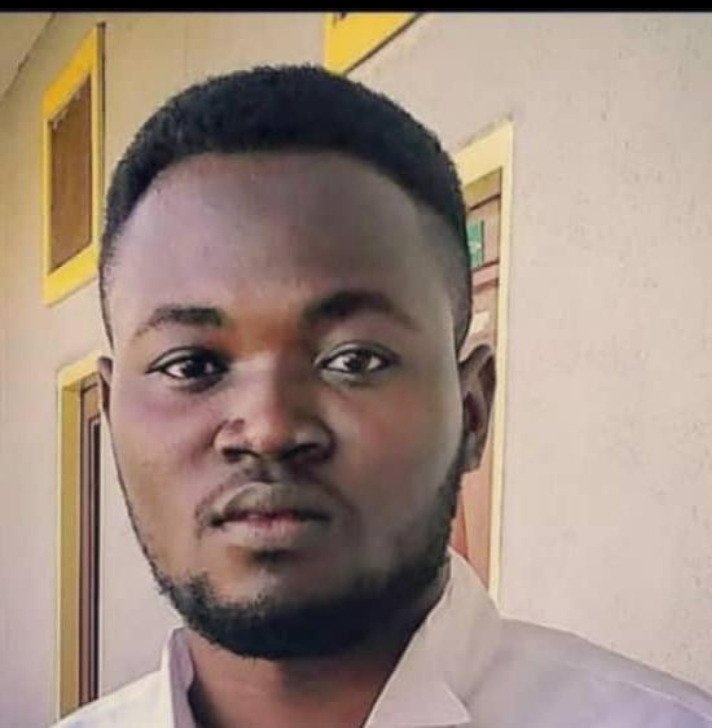
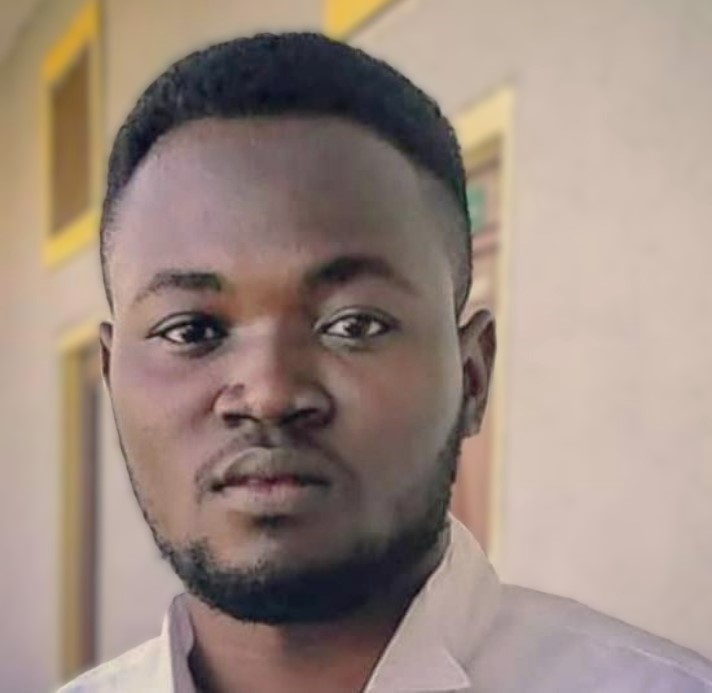
add descriptio for the projects and some styles

diff --git a/index.html b/index.html
@@ -89,7 +89,7 @@
         <!--About-me container-->
         <div class="relative container flex flex-col max-w-6xl mx-auto my-32 px-6 text-gray-900 md:flex-row md:px-0">
             <!--image-->
-            <img src="./images/Obinna Emmanuel Obi-Akwari.jpg" alt="">
+            <img src="./images/Obinna Emmanuel Obi-Akwari.jpg" class="rounded-xl shadow-2xl" alt="">
             <!--Text container-->
             <div class="top-48 pr-0 bg-white md:absolute md:right-0 md:py-20 md:pl-20">
                 <h2 class="max-w-lg mt-10 mb-6 font-sans text-4xl text-center text-gray-900 uppercase md:text-5xl md:mt-0 md:text-left">
@@ -152,7 +152,7 @@
             <!--Text container-->
             <div class="top-48 pr-0 bg-white md:right-0 md:py-20 md:pl-20">
                 <h2 class="max-w-lg mt-10 mb-6 font-sans text-4xl text-center text-gray-900  md:text-5xl md:mt-0 md:text-left">
-                   Backend
+                   Backend & Testing
                 </h2>
                 <div class="max-w-md text-center md:text-left md:text-justify">
                     <button class="border-2 p-1 bg-[#339933] text-white"><img src="" alt=""> Node js</button>
@@ -160,7 +160,9 @@
                     <button class="border-2 p-1 bg-[#47A248] text-white"><img src="" alt=""> Mongo DB</button>
                     <button class="border-2 p-1 bg-[#4E9F3D] text-white"><img src="" alt="">Mongoose</button>
                     <button class="border-2 p-1 bg-[#4479A1] text-white"><img src="" alt="">MySQL</button>
-                    <button class="border-2 p-1 bg-[#6C3D9E] text-white"><img src="" alt="">Sequelize</button>
+                    <button class="border-2 p-1 bg-[#6C3D9E] text-white"><img src="" alt="">Sequelize</button> 
+                    <button class="border-2 p-1 bg-[#00B8D9] text-black"><img src="" alt="">Vitest</button> 
+                    <button class="border-2 p-1 bg-[#99424F] text-white"><img src="" alt="">Jest</button> 
                 </div>
             </div>
         </div>
@@ -176,17 +178,23 @@
         </div>
         <div class=" container flex flex-col max-w-6xl mx-auto my-32 px-6 text-gray-900 md: text-center md: justify-center md:flex-row md:px-0">
             <!--image-->
-            <img src="./images/careerhunt.png" alt="">
+            <img src="./images/careerhunt.png" class="rounded-2xl shadow-xl" alt="careerhunt">
             <!--Text container-->
             <div class="top-48 pr-0 bg-white md:right-0 md:py-20 md:pl-20">
                 <h2 class="max-w-lg mt-10 mb-6 font-sans text-4xl text-center text-gray-900 uppercase md:text-5xl md:mt-0 md:text-left">
                    CareerHunt
                 </h2>
                 <p class="max-w-md text-center text-justify md:text-left md:text-justify">
-                    Hi there, I'm Obinna Emmanuel Obi-Akwari, a full-stack web developer driven by a deep passion for crafting digital solutions that make a difference. 
-                    With every project, I aim not just to meet expectations, but to exceed them, pushing boundaries and creating innovative web products. 
-                    My commitment to self-improvement means I'm always learning and staying ahead of the curve in this ever-evolving industry. 
-                    Let me bring your vision to life with my expertise, creativity, and dedication to excellence. <br /> <br />
+                    <i>"A platform for users to browse, apply and save job listings built with React and Node.js."</i><br /> 
+                    <b>Key features:</b>
+                    Fetches job listings dynamically from an external API. Users can create accounts, log in, log out, and delete their accounts.
+                    Authenticated users can save, view and delete saved jobs. Fully responsive design for both desktop and mobile users.<br />
+                    <b>Technologies Used:</b> <br />
+                    <b>Frontend:</b> React, Javascript, Boostrap, Html, Css. <br />
+                    <b>Backend:</b> Node.js, Express, MongoDB, Mongoose. <br />
+                    <b>Authentication:</b> JSON Web Tokens (JWT). <br />
+                    <b>API Calls:</b> Fetch API
+                    <br /> <br />
                     <button class="border-2 p-1 bg-[#28a745] text-white"><a href="">View Live</a></button>
                     <button class="border-2 p-1 bg-[#181717] text-white"><a href="">GitHub</a></button>
                     <button class="border-2 p-1 bg-[#D3D3D3] text-black"><a href="">Read more</a></button>
@@ -203,30 +211,17 @@
                    Frontend Quiz
                 </h2>
                 <p class="max-w-md text-center text-justify md:text-left md:text-justify">
-                    Hi there, I'm Obinna Emmanuel Obi-Akwari, a full-stack web developer driven by a deep passion for crafting digital solutions that make a difference. 
-                    With every project, I aim not just to meet expectations, but to exceed them, pushing boundaries and creating innovative web products. 
-                    My commitment to self-improvement means I'm always learning and staying ahead of the curve in this ever-evolving industry. 
-                    Let me bring your vision to life with my expertise, creativity, and dedication to excellence. <br /> <br />
-                    <button class="border-2 p-1 bg-[#28a745] text-white"><a href="">View Live</a></button>
-                    <button class="border-2 p-1 bg-[#181717] text-white"><a href="">GitHub</a></button>
-                    <button class="border-2 p-1 bg-[#D3D3D3] text-black"><a href="">Read more</a></button>
-                </p>
-            </div>
-        </div>
-
-        <div class=" container flex flex-col max-w-6xl mx-auto my-32 px-6 text-gray-900 md:flex-row md:px-0">
-            <!--image-->
-            <img src="" alt="">
-            <!--Text container-->
-            <div class="top-48 pr-0 bg-white md:right-0 md:py-20 md:pl-20">
-                <h2 class="max-w-lg mt-10 mb-6 font-sans text-4xl text-center text-gray-900 uppercase md:text-5xl md:mt-0 md:text-left">
-                   Rukins_Attire
-                </h2>
-                <p class="max-w-md text-center text-justify md:text-left md:text-justify">
-                    Hi there, I'm Obinna Emmanuel Obi-Akwari, a full-stack web developer driven by a deep passion for crafting digital solutions that make a difference. 
-                    With every project, I aim not just to meet expectations, but to exceed them, pushing boundaries and creating innovative web products. 
-                    My commitment to self-improvement means I'm always learning and staying ahead of the curve in this ever-evolving industry. 
-                    Let me bring your vision to life with my expertise, creativity, and dedication to excellence. <br /> <br />
+                    <i>"An engaging quiz platform where users answer questions and see their results, built with Vanilla Javascript, HTML and CSS."</i><br /> 
+                    <b>Key features:</b>
+                    Dynamic question rendering and scoring logic using javascript.
+                    Interactive interface with real-time feedback for correct/incorrect answers
+                    A results page shawing the user's final score and a summary.
+                    Responsive design ensuring compatibility across desktop, tablet and mobile devices.<br />
+                    <b>Technologies Used:</b> <br />
+                    <b>Frontend:</b> HTML, CSS, Javascript<br />
+                    <b>Styling:</b> Pure CSS<br />
+                    <b>Logic:</b> Vanilla Javascript for dynamic content updates<br />
+                    <br /> <br />
                     <button class="border-2 p-1 bg-[#28a745] text-white"><a href="">View Live</a></button>
                     <button class="border-2 p-1 bg-[#181717] text-white"><a href="">GitHub</a></button>
                     <button class="border-2 p-1 bg-[#D3D3D3] text-black"><a href="">Read more</a></button>
@@ -243,10 +238,62 @@
                    Portfolio
                 </h2>
                 <p class="max-w-md text-center text-justify md:text-left md:text-justify">
-                    Hi there, I'm Obinna Emmanuel Obi-Akwari, a full-stack web developer driven by a deep passion for crafting digital solutions that make a difference. 
-                    With every project, I aim not just to meet expectations, but to exceed them, pushing boundaries and creating innovative web products. 
-                    My commitment to self-improvement means I'm always learning and staying ahead of the curve in this ever-evolving industry. 
-                    Let me bring your vision to life with my expertise, creativity, and dedication to excellence. <br /> <br />
+                    <i>"A responsive personal Portfolio showcasing projects built with HTML, Tailwind CSS and Javascript."</i><br /> 
+                    <b>Key features:</b>
+                    Fully responsive design built with Tailwind CSS.
+                    Interactive sections including a navigation menu, About me, Specialy, Tools and My works.
+                    Smooth scrolling and animations for an engaging user experience<br />
+                    <b>Technologies Used:</b> <br />
+                    <b>Frontend:</b> HTML, Tailwind CSS, Javascript. <br />
+                    <b>Styling:</b> Tailwind CSS for efficient and responsive designs. <br />
+                    <b>Interactivity:</b>Vanilla Javascript to triger animation, e.g the hamburger menu transforms on click.<br />
+                    <br /> <br />
+                    <button class="border-2 p-1 bg-[#28a745] text-white"><a href="">View Live</a></button>
+                    <button class="border-2 p-1 bg-[#181717] text-white"><a href="">GitHub</a></button>
+                    <button class="border-2 p-1 bg-[#D3D3D3] text-black"><a href="">Read more</a></button>
+                </p>
+            </div>
+        </div>
+
+        <div class=" container flex flex-col max-w-6xl mx-auto my-32 px-6 text-gray-900 md:flex-row md:px-0">
+            <!--image-->
+            <img src="" alt="">
+            <!--Text container-->
+            <div class="top-48 pr-0 bg-white md:right-0 md:py-20 md:pl-20">
+                <h2 class="max-w-lg mt-10 mb-6 font-sans text-4xl text-center text-gray-900 uppercase md:text-5xl md:mt-0 md:text-left">
+                   School 4u
+                </h2>
+                <p class="max-w-md text-center text-justify md:text-left md:text-justify">
+                    <i>"School 4U was an ambitious EdTech platform aiming to help parents select the best schools
+                        for their children. While the project was discontinued due to funding contraints, it was 
+                        a valuable learning experience in backend development, API design, and teamwork in an agile
+                        setting. You can explore the GitHUb organization to see the structure and vision of the project."</i>
+                        <br /> 
+                        <br /> 
+                    <b>Key features:</b>
+                    A searchable database of schools with filters for location, tuition fees, curriculum and facilities.
+                    A community forum to foster discussions and reviews among parents.
+                    Features to compare schools side-by-side for easier decision-making. \
+                    Admin dashoard for managing school data and user feedback (planned)
+                    <br />
+                    <br />
+                    <b>Technologies Used:</b> <br />
+                    <b>Frontend:</b> React js, Styled Components Javascript, <br />
+                    <b>Backend:</b> Node.js, Express, MySQL, Sequelize. <br />
+                    <b>Authentication:</b> JSON Web Tokens (JWT). <br />
+                    <b>API Calls:</b> Axios. 
+                    <br />
+                    <br />
+                    <b>My Contribution:</b> <br />
+                    Collaborated as a <b>backend developer</b>, focusing on building the chat functionality which will allow discussions
+                    in the community forum, using Websockets and Socket.io.
+                    <br />
+                    <br />
+                    <b>Challenges & Outcomes:</b> <br />
+                    <b>Challenge:</b>The project didn't secure funding and was never completed. However you can <b>view the front-end</b> to see how the project was envisioned. <br />
+                    <b>Challenge:</b>My contributions weren't merged due to the project's discontinuation. <br />
+                    <b>Outcome:</b>Despite these, the collaboration experience honed my skills in backend development and teamwork within an agile environment.
+                    <br /> <br />
                     <button class="border-2 p-1 bg-[#28a745] text-white"><a href="">View Live</a></button>
                     <button class="border-2 p-1 bg-[#181717] text-white"><a href="">GitHub</a></button>
                     <button class="border-2 p-1 bg-[#D3D3D3] text-black"><a href="">Read more</a></button>

diff --git a/css/style.css b/css/style.css
@@ -757,8 +757,16 @@ video {
   border-radius: 1rem;
 }
 
+.rounded-xl {
+  border-radius: 0.75rem;
+}
+
 .border-2 {
   border-width: 2px;
+}
+
+.border {
+  border-width: 1px;
 }
 
 .border-b {
@@ -768,6 +776,11 @@ video {
 .bg-\[\#003366\] {
   --tw-bg-opacity: 1;
   background-color: rgb(0 51 102 / var(--tw-bg-opacity, 1));
+}
+
+.bg-\[\#006A7B\] {
+  --tw-bg-opacity: 1;
+  background-color: rgb(0 106 123 / var(--tw-bg-opacity, 1));
 }
 
 .bg-\[\#007bff\] {
@@ -845,6 +858,16 @@ video {
   background-color: rgb(111 66 193 / var(--tw-bg-opacity, 1));
 }
 
+.bg-\[\#99424F\] {
+  --tw-bg-opacity: 1;
+  background-color: rgb(153 66 79 / var(--tw-bg-opacity, 1));
+}
+
+.bg-\[\#D3D3D3\] {
+  --tw-bg-opacity: 1;
+  background-color: rgb(211 211 211 / var(--tw-bg-opacity, 1));
+}
+
 .bg-\[\#E34F26\] {
   --tw-bg-opacity: 1;
   background-color: rgb(227 79 38 / var(--tw-bg-opacity, 1));
@@ -870,14 +893,9 @@ video {
   background-color: rgb(255 255 255 / var(--tw-bg-opacity, 1));
 }
 
-.bg-\[\#D3D3D3\] {
+.bg-\[\#00B8D9\] {
   --tw-bg-opacity: 1;
-  background-color: rgb(211 211 211 / var(--tw-bg-opacity, 1));
-}
-
-.bg-\[\#A9A9A9\] {
-  --tw-bg-opacity: 1;
-  background-color: rgb(169 169 169 / var(--tw-bg-opacity, 1));
+  background-color: rgb(0 184 217 / var(--tw-bg-opacity, 1));
 }
 
 .p-1 {
@@ -886,6 +904,10 @@ video {
 
 .p-4 {
   padding: 1rem;
+}
+
+.p-10 {
+  padding: 2.5rem;
 }
 
 .px-6 {
@@ -972,6 +994,24 @@ video {
 .text-white {
   --tw-text-opacity: 1;
   color: rgb(255 255 255 / var(--tw-text-opacity, 1));
+}
+
+.shadow-lg {
+  --tw-shadow: 0 10px 15px -3px rgb(0 0 0 / 0.1), 0 4px 6px -4px rgb(0 0 0 / 0.1);
+  --tw-shadow-colored: 0 10px 15px -3px var(--tw-shadow-color), 0 4px 6px -4px var(--tw-shadow-color);
+  box-shadow: var(--tw-ring-offset-shadow, 0 0 #0000), var(--tw-ring-shadow, 0 0 #0000), var(--tw-shadow);
+}
+
+.shadow-2xl {
+  --tw-shadow: 0 25px 50px -12px rgb(0 0 0 / 0.25);
+  --tw-shadow-colored: 0 25px 50px -12px var(--tw-shadow-color);
+  box-shadow: var(--tw-ring-offset-shadow, 0 0 #0000), var(--tw-ring-shadow, 0 0 #0000), var(--tw-shadow);
+}
+
+.shadow-xl {
+  --tw-shadow: 0 20px 25px -5px rgb(0 0 0 / 0.1), 0 8px 10px -6px rgb(0 0 0 / 0.1);
+  --tw-shadow-colored: 0 20px 25px -5px var(--tw-shadow-color), 0 8px 10px -6px var(--tw-shadow-color);
+  box-shadow: var(--tw-ring-offset-shadow, 0 0 #0000), var(--tw-ring-shadow, 0 0 #0000), var(--tw-shadow);
 }
 
 #hero {
